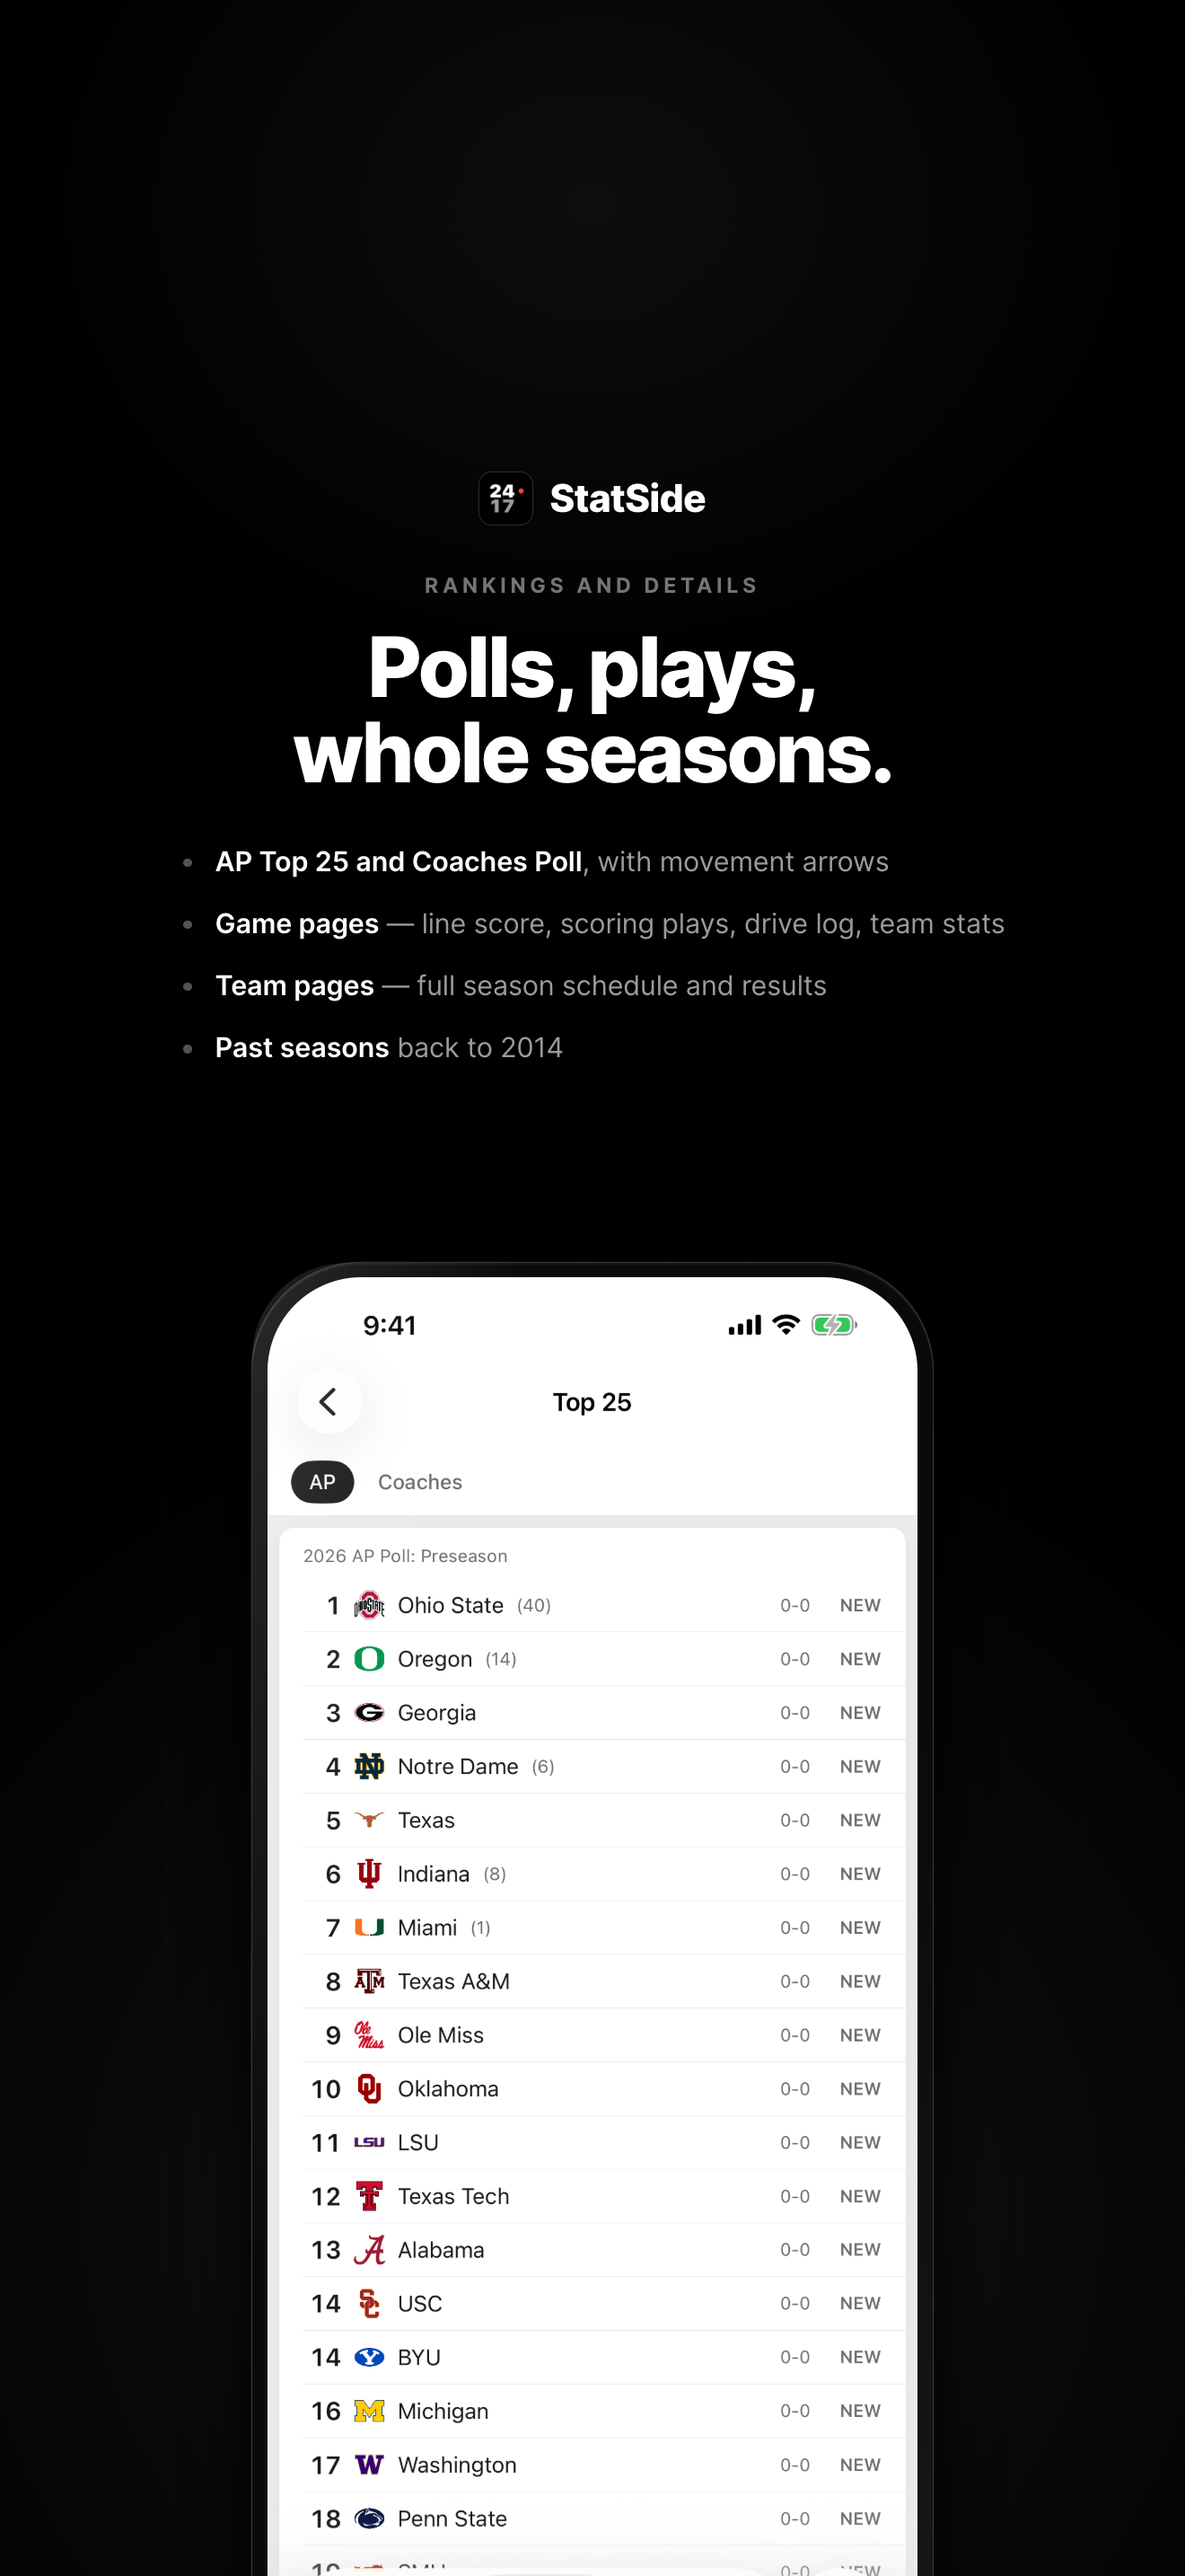
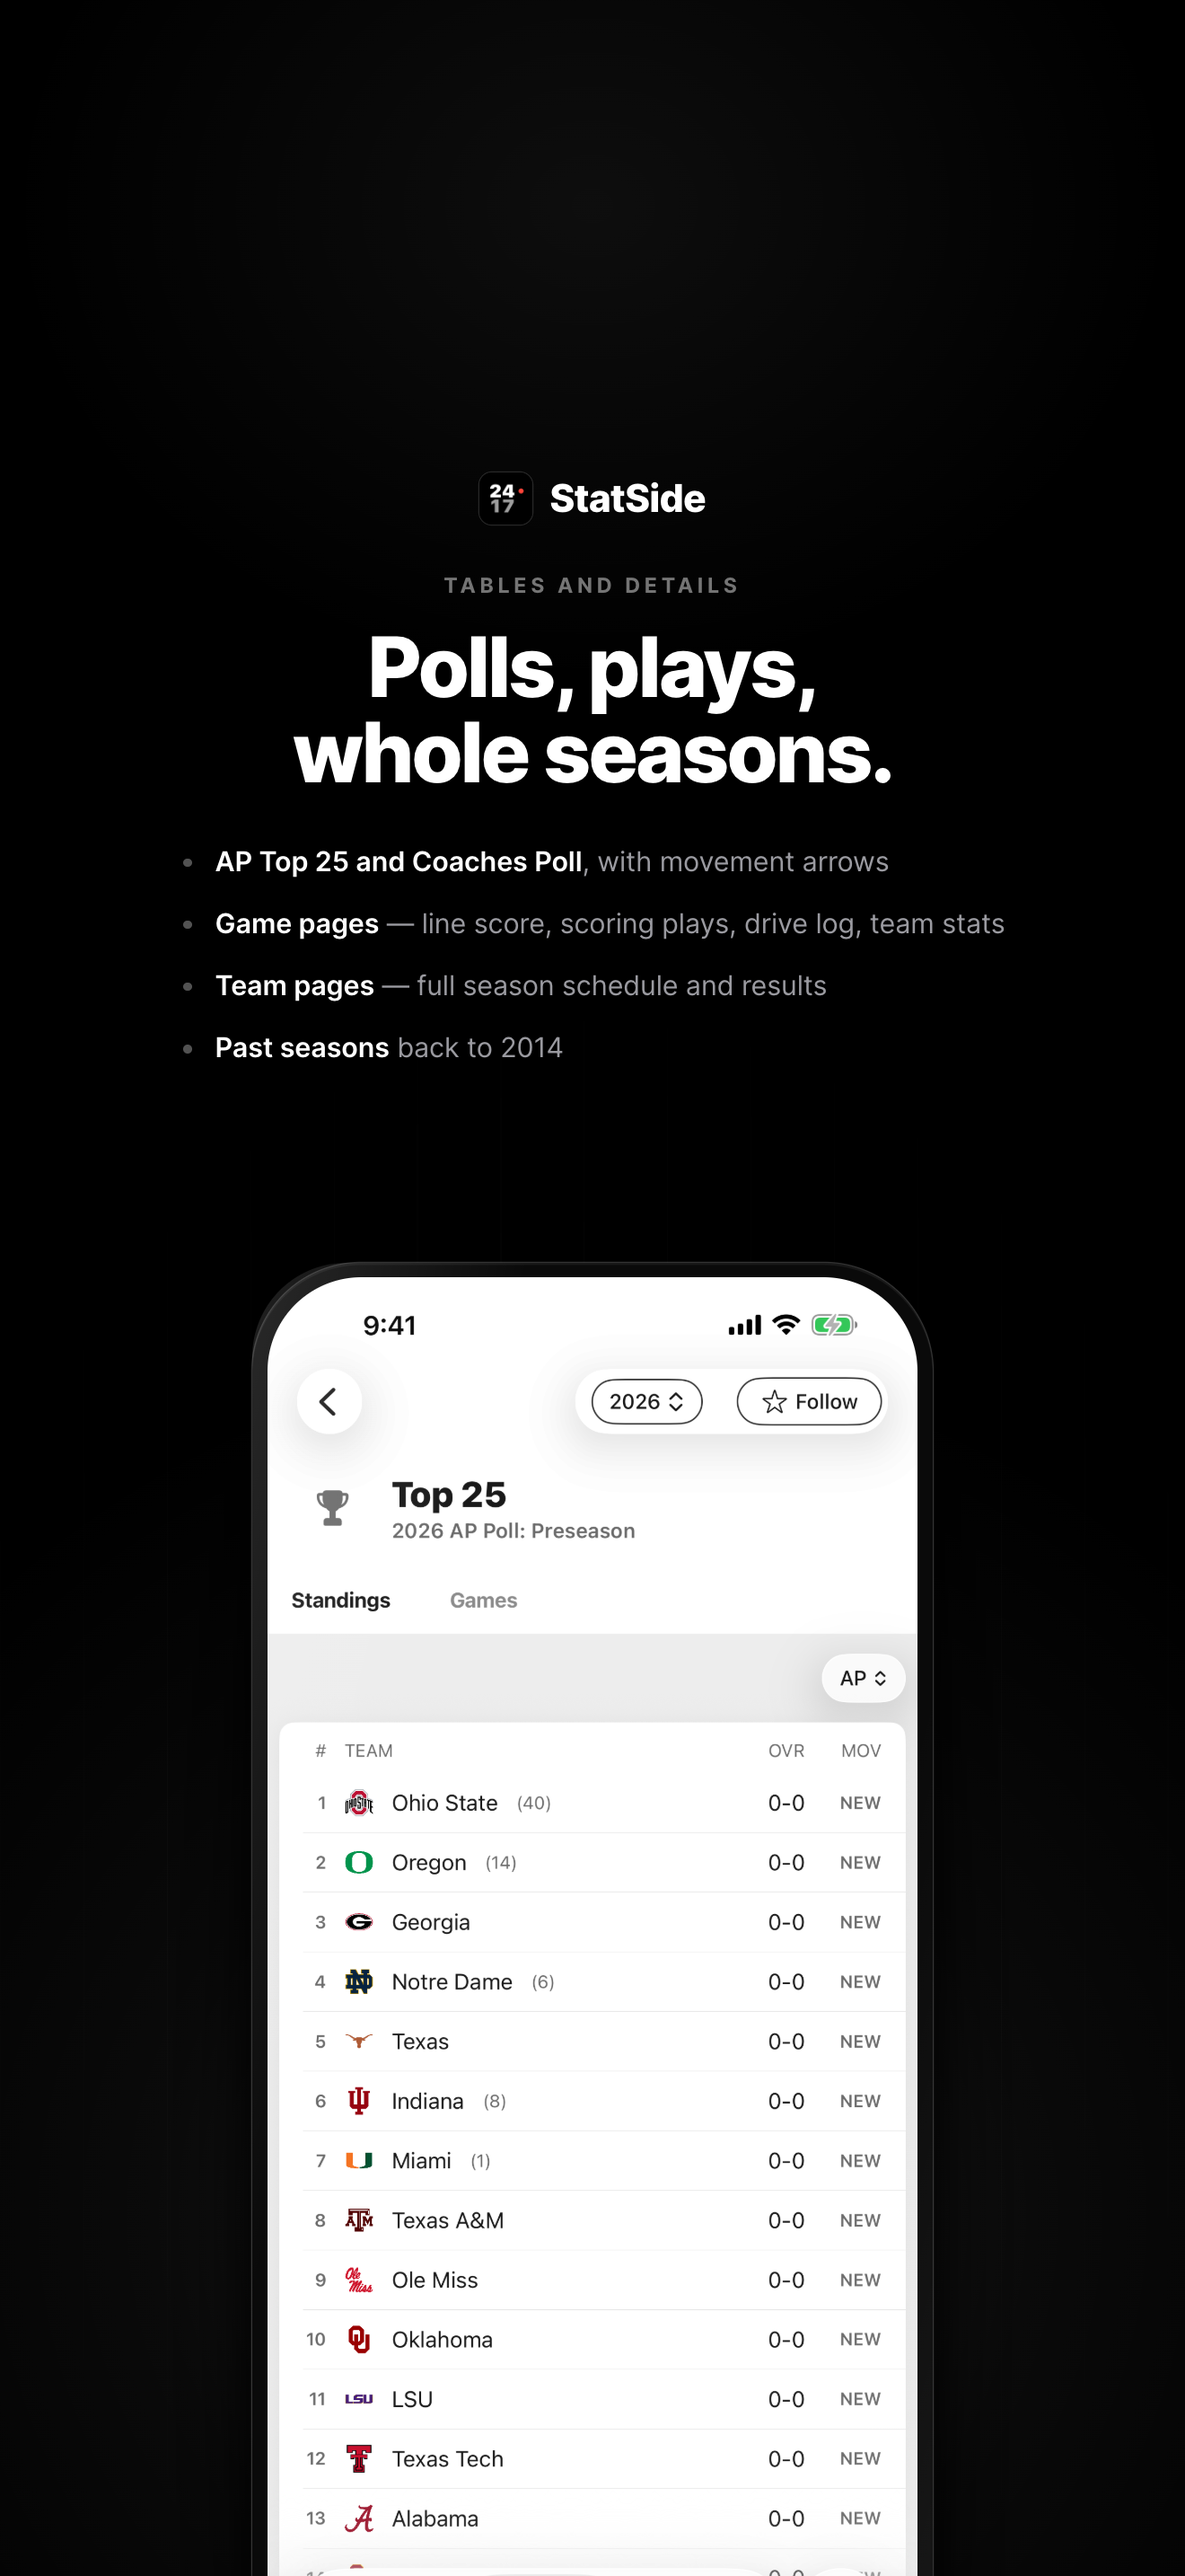
Cut 2.0: the store listing, the screenshots, and the charter
Version 2.0 (build 13) across all eight pbxproj spots.

The 1.x listing said "college football" everywhere, and one section of the
description was no longer true of the app at all: "A WEEK, NOT A DATE"
described the week strip, which retired on 2026-09-05. That section is gone
rather than reworded — a week can only be honest about one league. The
subtitle, keywords, promotional text, release notes and review notes all
name both leagues now, and the disclaimer names the NFL alongside the NCAA.

Screenshots reshot against a live Saturday. Two things worth knowing before
the next reshoot, both learned here and both written into the listing:

- A capture against a fresh install shoots before the team marks have
  downloaded, and every logo lands as an empty grey disc. Run the suite
  twice and keep the second set — logos-in-colour is the whole visual
  signature, and a store shot without them is not shippable.
- There is no played NFL game anywhere Scores can reach before the season
  starts: the strip is bounded by the current season and Scores has no
  season control any more. So the frame that carries the NFL is an upcoming
  Sunday's slate of kickoff times, which is the honest picture of a Sunday
  morning. `SCREENSHOT_PREGAME` waives the has-scores assertion and stops
  after the slate, since everything below it needs a played game.

The masters are renumbered to match what the capture actually shoots, with
[…]

diff --git a/sportsUITests/AppStoreScreenshots.swift b/sportsUITests/AppStoreScreenshots.swift
@@ -26,15 +26,21 @@ final class AppStoreScreenshots: XCTestCase {
                                 // with content (argument-domain array syntax).
                                 // League-qualified since the namespacing
                                 // migration — a bare id reads as nobody.
+                                //
+                                // Overridable, because the teams worth
+                                // seeding depend on the day being shot: a
+                                // both-leagues frame needs a follow in each
+                                // league that actually played that day.
                                 "-following.teamKeys",
-                                "(cfb:61, cfb:130, cfb:251)"]
+                                ProcessInfo.processInfo.environment["SCREENSHOT_FOLLOWS"]
+                                    ?? "(cfb:61, cfb:130, cfb:251)"]
         app.launch()
 
         let env = ProcessInfo.processInfo.environment
-        if let year = env["SCREENSHOT_SEASON"].flatMap(Int.init) {
-            XCTAssertTrue(selectSeason(year, in: app),
-                          "Season menu should switch to \(year)")
-        }
+        // No SCREENSHOT_SEASON any more: Scores carries no season control
+        // since the view-options sheet retired — the day strip is bounded
+        // by the current season and season selection lives on Tables. Any
+        // day of this season is reachable by name; a past season is not.
         if let day = env["SCREENSHOT_DAY"] {
             // Chips are addressed by their spoken label ("Saturday,
             // November 8"); the strip's HStack isn't lazy, so every day
@@ -49,11 +55,28 @@ final class AppStoreScreenshots: XCTestCase {
         // Scores: expand nothing — Following and the league accordions are
         // open by default, which is the hero shot. Wait for a row that has
         // a score on it, so the slate isn't a screen of kickoff times.
+        //
+        // SCREENSHOT_PREGAME waives that, for the one frame that has to
+        // show a day nobody has played yet: before the NFL's opening week
+        // there is no played NFL game anywhere Scores can reach, and a
+        // slate of kickoff times is the honest picture of that Sunday.
         let played = app.scrollViews.buttons.matching(NSPredicate(
             format: "label CONTAINS[c] %@ OR label CONTAINS[c] %@", " left", "final"))
-        XCTAssertTrue(played.firstMatch.waitForExistence(timeout: 20),
-                      "The day should show games with scores")
+        if env["SCREENSHOT_PREGAME"] == nil {
+            XCTAssertTrue(played.firstMatch.waitForExistence(timeout: 20),
+                          "The day should show games with scores")
+        } else {
+            let anyRow = app.scrollViews.buttons.matching(NSPredicate(
+                format: "label CONTAINS[c] %@", " at ")).firstMatch
+            XCTAssertTrue(anyRow.waitForExistence(timeout: 20),
+                          "The day should show its slate")
+        }
         snapshot(app, "01-scores")
+
+        // Pre-game mode shoots the slate and stops. Everything below needs
+        // a played game — a box score, a line score, leaders — and a day
+        // nobody has played has none of it.
+        if env["SCREENSHOT_PREGAME"] != nil { return }
 
         // Game detail, off a completed game where there is one. The live
         // treatment is already the Scores shot's job; what the detail and box

diff --git a/sportsUITests/UITestSupport.swift b/sportsUITests/UITestSupport.swift
@@ -31,15 +31,14 @@ extension XCUIApplication {
     /// The season picker's menu button in the filter sheet, labeled with
     /// the selected year.
     var seasonChip: XCUIElement {
-        buttons.matching(NSPredicate(format: "label MATCHES %@", "^20[0-9][0-9]$"))
-            .firstMatch
+        descendants(matching: .any).matching(identifier: "season-chip").firstMatch
     }
 
-    /// The Scores header's funnel chip — the door to the view-options
-    /// sheet (grouping, season, conference filter).
-    var scoresFilterChip: XCUIElement {
-        descendants(matching: .any)
-            .matching(identifier: "scores-filter-chip").firstMatch
+    /// The Scores header's Live chip — the one control left there, and so
+    /// the stable "Scores has rendered" marker. It replaced the
+    /// view-options funnel, which retired with its sheet.
+    var scoresLiveChip: XCUIElement {
+        descendants(matching: .any).matching(identifier: "scores-live-chip").firstMatch
     }
 
     /// A followed team's card on the Teams tab. The card speaks its name
@@ -291,18 +290,12 @@ extension XCTestCase {
                       attempts: Int = 3) -> Bool {
         let label = String(year)
         for _ in 0..<attempts {
-            // The season picker lives in the filter sheet (2026-08-29).
-            if !app.seasonChip.exists {
-                let funnel = app.scoresFilterChip
-                guard funnel.waitForExistence(timeout: 15) else { continue }
-                funnel.tap()
-            }
+            // Wherever the chip rides — a hero toolbar, a tab pane — it is
+            // simply on screen; there is no door to open first. Scores has
+            // no season control at all now, so this is for entity pages.
             let chip = app.seasonChip
-            guard chip.waitForExistence(timeout: 10) else { continue }
-            if chip.label == label {
-                dismissFilterSheet(in: app)
-                return true
-            }
+            guard chip.waitForExistence(timeout: 15) else { continue }
+            if chip.value as? String == label { return true }
             chip.tap()
 
             // Picker rows inside a Menu surface as plain buttons on iOS.
@@ -311,18 +304,11 @@ extension XCTestCase {
             option.tap()
 
             let updated = app.seasonChip
-            if updated.waitForExistence(timeout: 10), updated.label == label {
-                dismissFilterSheet(in: app)
+            if updated.waitForExistence(timeout: 10),
+               updated.value as? String == label {
                 return true
             }
         }
         return false
-    }
-
-    /// Closes the filter sheet if it's up; a no-op otherwise.
-    @MainActor
-    func dismissFilterSheet(in app: XCUIApplication) {
-        let cancel = app.buttons["Cancel"]
-        if cancel.waitForExistence(timeout: 3) { cancel.tap() }
     }
 }

diff --git a/docs/social/src/as-04-week.html b/docs/social/src/as-04-week.html
@@ -48,13 +48,13 @@
         <img src="../../../sports/Assets.xcassets/AppIcon.appiconset/AppIcon.png">
         <div class="wordmark">StatSide</div>
       </div>
-      <div class="kicker">A week, not a date</div>
-      <div class="headline">College football<br>thinks in weeks.</div>
-      <div class="sub">Flip from Week 0 to championship week, the bowls, and the Playoff.</div>
+      <div class="kicker">A day at a time</div>
+      <div class="headline">Saturday.<br>Then Sunday.</div>
+      <div class="sub">A day at a time, all season — swipe forward, or jump back to today.</div>
     </div>
 
-    <div class="crop strip"><img src="../../appstore/screenshots/01-scores.png"></div>
-    <div class="crop slate"><img src="../../appstore/screenshots/01-scores.png"></div>
+    <div class="crop strip"><img src="../../appstore/screenshots/08-nfl-sunday.png"></div>
+    <div class="crop slate"><img src="../../appstore/screenshots/08-nfl-sunday.png"></div>
   </div>
 </div>
 </body>

diff --git a/docs/social/src/as-03-saturdays.html b/docs/social/src/as-03-saturdays.html
@@ -31,12 +31,12 @@
         <img src="../../../sports/Assets.xcassets/AppIcon.appiconset/AppIcon.png">
         <div class="wordmark">StatSide</div>
       </div>
-      <div class="kicker">Built for Saturdays</div>
-      <div class="headline">One screen,<br>whole slate.</div>
+      <div class="kicker">Built for the weekend</div>
+      <div class="headline">One screen,<br>whole weekend.</div>
       <ul class="bullets">
         <li><b>Your teams first</b> — their games lead the page</li>
-        <li><b>Top 25 games</b> in their own section, always complete</li>
-        <li><b>Every conference</b> in sections that remember how you left them</li>
+        <li><b>Each league</b> in its own section on the day you're on</li>
+        <li><b>Sections</b> that remember how you left them</li>
         <li><b>Live games</b> carry a green dot, the clock, and the network</li>
         <li><b>One tap</b> filters to live games only</li>
       </ul>

diff --git a/sportsUITests/ConferenceUITests.swift b/sportsUITests/ConferenceUITests.swift
@@ -95,9 +95,9 @@ final class ConferenceUITests: XCTestCase {
         XCTAssertTrue(tapUntilDismissed(back, dismissing: follow),
                       "Back should pop the conference page")
         // The funnel chip marks the Scores header — the season chip moved
-        // inside the filter sheet (2026-08-29), so it's no longer visible
-        // at rest.
-        XCTAssertTrue(openTab("Scores", in: app, until: app.scoresFilterChip),
+        // gone entirely with the view-options sheet (2026-09-06); the
+        // season chip on the day strip is the stable marker now.
+        XCTAssertTrue(openTab("Scores", in: app, until: app.scoresLiveChip),
                       "Scores should render its header")
         // Following a conference is what puts its whole slate into the
         // Scores Following section. Asserting the section exists, not what

diff --git a/sportsUITests/ScreenshotTests.swift b/sportsUITests/ScreenshotTests.swift
@@ -32,14 +32,9 @@ final class ScreenshotTests: XCTestCase {
                       "An expanded league should reveal game rows")
         snapshot(app, "\(prefix)-scores")
 
-        // The filter sheet, which now carries the season and the slate.
-        let funnel = app.scoresFilterChip
-        if funnel.waitForExistence(timeout: 10) {
-            funnel.tap()
-            _ = app.staticTexts["Slate"].waitForExistence(timeout: 5)
-            snapshot(app, "\(prefix)-scores-filter")
-            dismissFilterSheet(in: app)
-        }
+        // The view-options sheet retired on 2026-09-06 — Live and Top 25
+        // are header chips and the season rides the day strip, so there is
+        // no sheet left to shoot.
 
         // Game detail off the expanded league section.
         XCTAssertTrue(gameLink.waitForExistence(timeout: 5))

diff --git a/docs/social/src/as-01-hero.html b/docs/social/src/as-01-hero.html
@@ -58,8 +58,8 @@
         <div class="wordmark">StatSide</div>
       </div>
 
-      <div class="headline">College football,<br>at a glance.</div>
-      <div class="sub">Scores, rankings, and every conference — in one thumb, one scroll.</div>
+      <div class="headline">College football<br>and the NFL.</div>
+      <div class="sub">Both leagues, one day at a time — in one thumb, one scroll.</div>
       <div class="pill"><span class="dot"></span> Live scores · No ads · No account</div>
     </div>
 
@@ -68,7 +68,7 @@
       <div class="glare"></div>
     </div>
     <div class="phone right">
-      <img src="../../appstore/screenshots/03-game-detail.png">
+      <img src="../../appstore/screenshots/02-game-detail.png">
       <div class="glare"></div>
     </div>
     <div class="phone hero">

diff --git a/docs/social/src/as-08-closer.html b/docs/social/src/as-08-closer.html
@@ -41,8 +41,8 @@
     <div class="head">
       <img class="icon" src="../../../sports/Assets.xcassets/AppIcon.appiconset/AppIcon.png">
       <div class="wordmark">StatSide</div>
-      <div class="headline">Free. Fast.<br>One sport, done right.</div>
-      <div class="fine">An independent app. Not affiliated with or endorsed by the NCAA, any conference, or any school.</div>
+      <div class="headline">Free. Fast.<br>Two leagues, done right.</div>
+      <div class="fine">An independent app. Not affiliated with or endorsed by the NFL, the NCAA, or any conference, team or school.</div>
     </div>
   </div>
 </div>

diff --git a/sportsUITests/SmokeUITests.swift b/sportsUITests/SmokeUITests.swift
@@ -87,7 +87,7 @@ final class SmokeUITests: XCTestCase {
         // openTab, not a bare tab tap: a tap issued while the team-page
         // push is still settling gets swallowed, and the hunt below then
         // swipes the team page instead of the scores list.
-        XCTAssertTrue(openTab("Scores", in: app, until: app.scoresFilterChip),
+        XCTAssertTrue(openTab("Scores", in: app, until: app.scoresLiveChip),
                       "Scores should render its header")
         let followingHeader = app.buttons.matching(NSPredicate(
             format: "label BEGINSWITH %@", "Following,")).firstMatch

diff --git a/sports/Theme/SeasonMenuChip.swift b/sports/Theme/SeasonMenuChip.swift
@@ -34,6 +34,12 @@ struct SeasonMenuChip: View {
         }
         .disabled(seasons.isEmpty)
         .accessibilityLabel("Season, \(String(current))")
+        // A stable handle for the screenshot flow, which has to reach the
+        // chip wherever it rides — the Scores strip, a hero toolbar, or a
+        // tab pane. Matching the spoken label instead would break every
+        // time the wording moves.
+        .accessibilityIdentifier("season-chip")
+        .accessibilityValue(String(current))
     }
 
     @ViewBuilder

diff --git a/docs/social/src/as-02-follow.html b/docs/social/src/as-02-follow.html
@@ -54,7 +54,7 @@
       </div>
       <div class="kicker">Following</div>
       <div class="headline">Your teams<br>lead the page.</div>
-      <div class="sub">Follow any FBS team and their games sit at the top, every week — before you scroll anything else.</div>
+      <div class="sub">Follow any team in either league and their games sit together at the top — before you scroll anything else.</div>
     </div>
 
     <div class="crop follow"><img src="../../appstore/screenshots/06-team-page.png"></div>

diff --git a/docs/social/src/as-05-rankings.html b/docs/social/src/as-05-rankings.html
@@ -31,7 +31,7 @@
         <img src="../../../sports/Assets.xcassets/AppIcon.appiconset/AppIcon.png">
         <div class="wordmark">StatSide</div>
       </div>
-      <div class="kicker">Rankings and details</div>
+      <div class="kicker">Tables and details</div>
       <div class="headline">Polls, plays,<br>whole seasons.</div>
       <ul class="bullets">
         <li><b>AP Top 25 and Coaches Poll</b>, with movement arrows</li>
